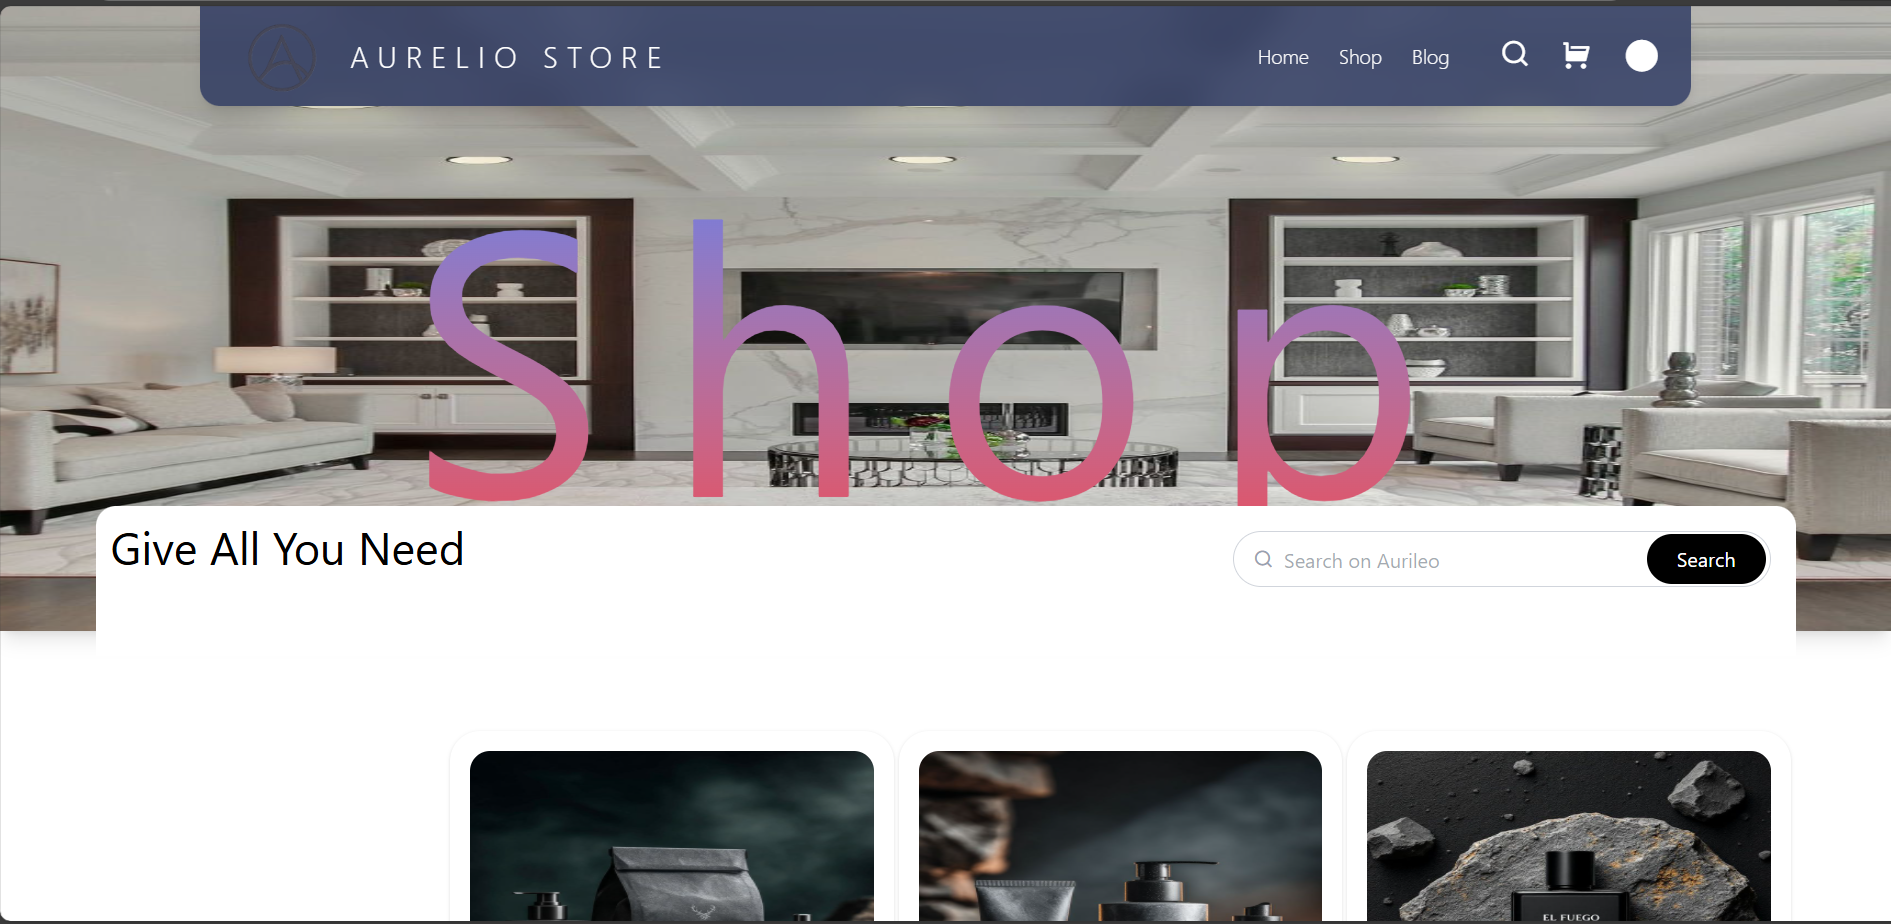
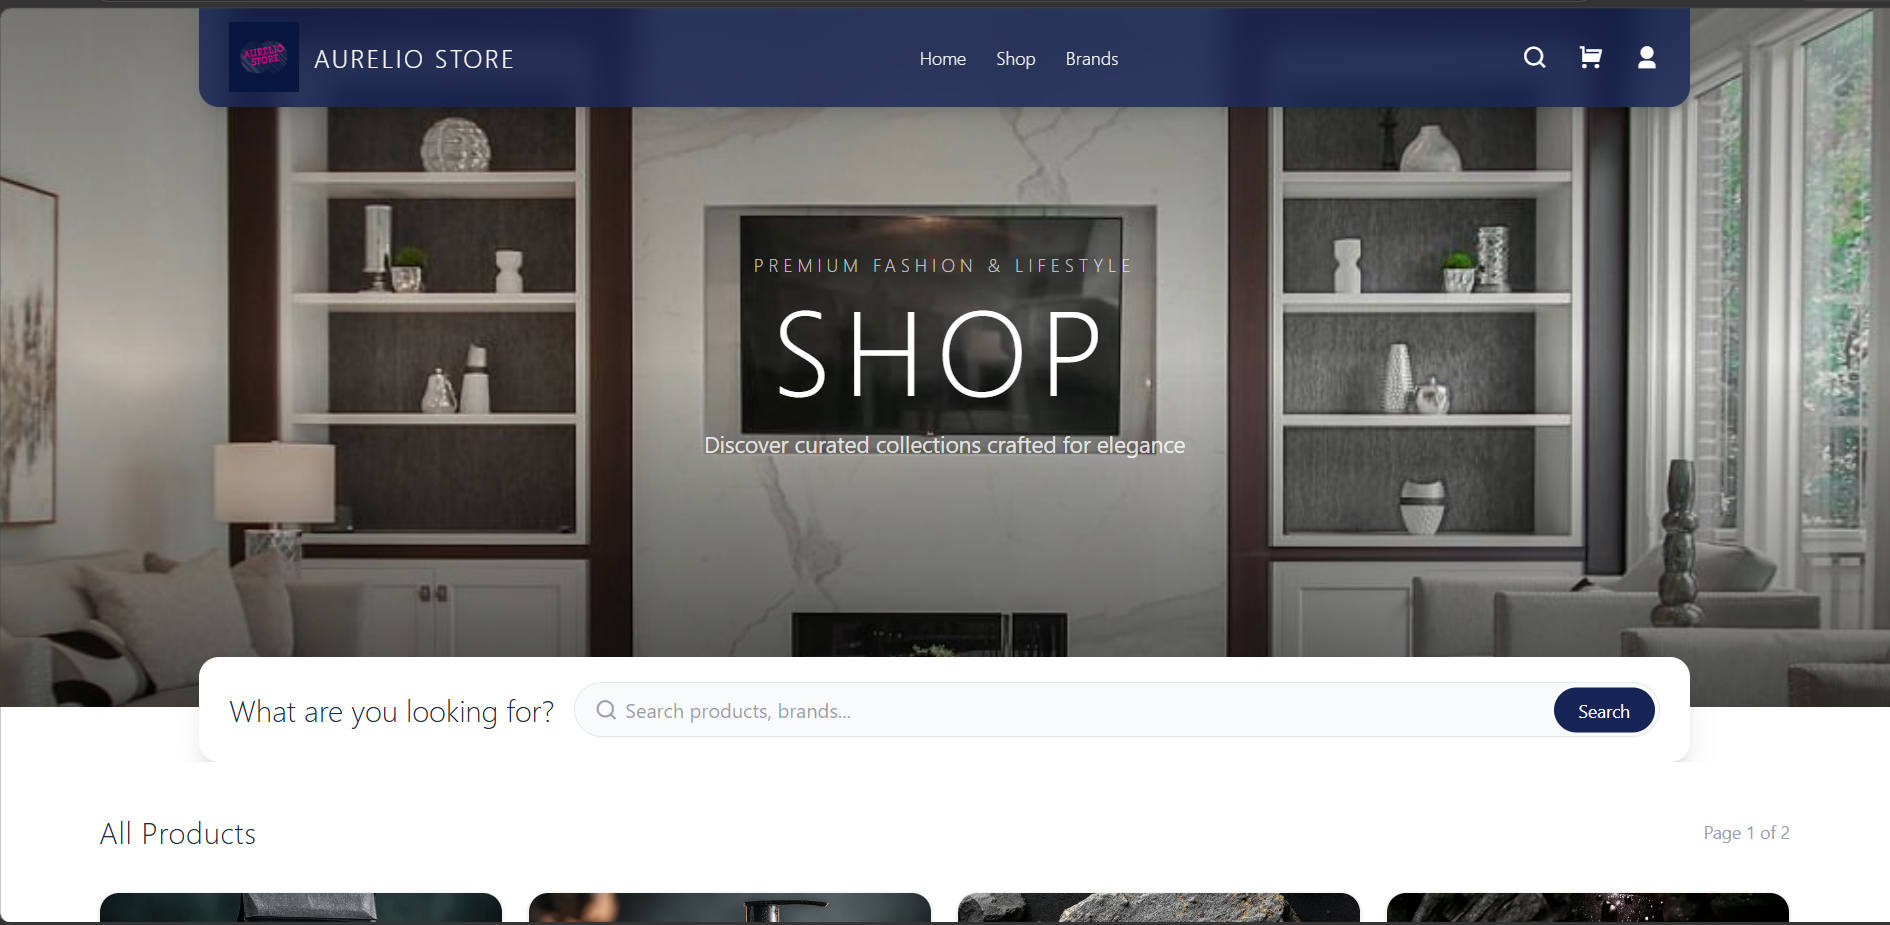
done

diff --git a/src/Components/Project.jsx b/src/Components/Project.jsx
@@ -11,7 +11,7 @@ const projects = [
     link: "https://github.com/VANSH-73-WEB/Wavvy_music-_app.git",
   },
   {
-    img: "/Img/E-commerce.png",
+    img: "/Img/E-COMMERCE.png",
     title: "E-commerce",
     link: "https://github.com/VANSH-73-WEB/AURELIOSTORE.git",
   },